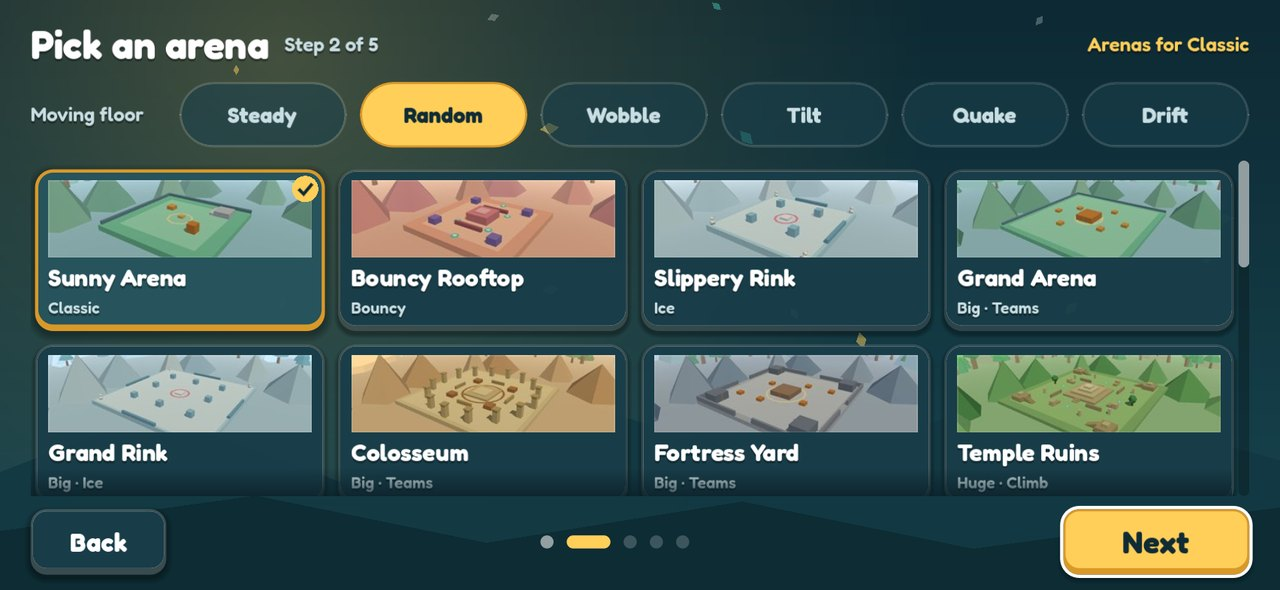
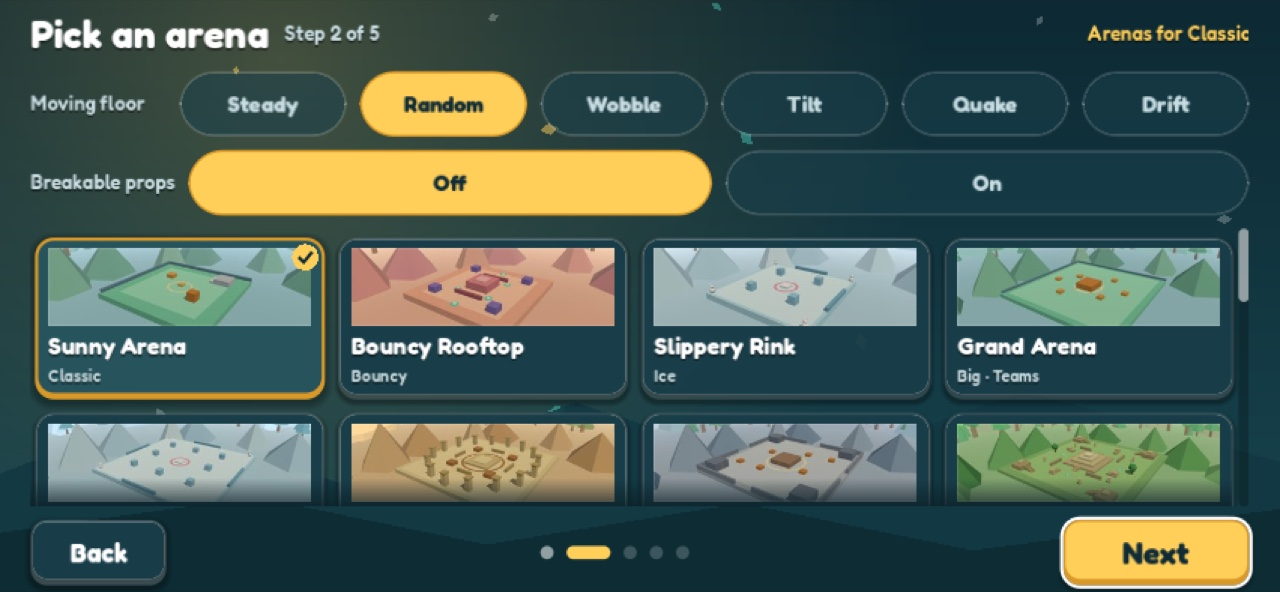
docs: refresh README for 0.4.0
Bump the version badge and add a What's new in 0.4.0 section (Arcade co-op,
Quick play, the two-column title screen, countdown and safe spawn, melee
boss and FIRE fixes).

Document Quick play, Arcade co-op, Kids mode, Leaderboards and Breakable
props in the feature list, and mention co-op in the About and Construction
sections. Re-render the stale title and arena-picker screenshots from the
current code.

diff --git a/README.md b/README.md
@@ -5,7 +5,7 @@
 <br />
 
 [![iOS beta on TestFlight](https://img.shields.io/badge/iOS_beta-TestFlight-0D96F6?style=for-the-badge&logo=apple&logoColor=white)](https://testflight.apple.com/v1/app/6833812750)
-![Version 0.3.0](https://img.shields.io/badge/version-0.3.0-FFCF4D?style=for-the-badge)
+![Version 0.4.0](https://img.shields.io/badge/version-0.4.0-FFCF4D?style=for-the-badge)
 ![Godot 4.7](https://img.shields.io/badge/Godot-4.7-478CBF?style=for-the-badge&logo=godotengine&logoColor=white)
 ![iOS, Android, macOS, Windows, Web](https://img.shields.io/badge/iOS_·_Android_·_macOS_·_Windows_·_Web-17323A?style=for-the-badge)
 
@@ -15,12 +15,22 @@
 
 **Wobblers Arena** is a third-person party brawler where blocky, wobbly fighters knock each other around small low-poly arenas. Weapons drop from the sky in crates, every hit sends someone ragdolling, and the floor itself may tilt, quake or drift under your feet.
 
-Play offline against computer players, or open a room and play online with friends using a public room or a code. Matches are short, a round takes a few minutes, and the game is built for phones in landscape as much as for a keyboard and mouse.
+Play offline against computer players, open a room and play online with friends using a public room or a code, or team up for the Arcade boss rush in two-player co-op. Matches are short, a round takes a few minutes, and the game is built for phones in landscape as much as for a keyboard and mouse.
 
 <div align="center">
   <img src="docs/readme/match.jpg" alt="A Classic match on Sunny Arena, with the health bar, weapon slots and radar" width="100%" />
   <em>A Classic match on Sunny Arena: crates drop from the sky, and whoever grabs the weapon first gets the swing.</em>
 </div>
+
+## What's new in 0.4.0
+
+The co-op update, as it appears in the game's What's new card:
+
+- **Arcade co-op.** Two players online beat the six-stage boss rush together, and a bot takes over if your mate leaves.
+- **Quick play.** One tap on the title screen for a random arena and mode, straight into an offline match.
+- **A new title screen.** Play and Quick play on the left, the rest on the right.
+- **A fairer start.** Matches open with a countdown, and you spawn on a random safe spot.
+- **Fixed.** Melee Arcade bosses, and the FIRE button that could stick.
 
 ## What's in it
 
@@ -29,7 +39,12 @@ Play offline against computer players, or open a room and play online with frien
 - **30+ arenas.** A sunny arena, an ice rink, a volcano rim, a moon base, a candy land, a pirate ship, a haunted hollow and many more, plus a Sandbox where you build your own from blocks.
 - **20+ game types.** Classic, Melee Only, Guns Only, Ninja, Explosive, Weapon Ladder, Deathmatch, Sudden Death, team games from 1v1 to 5v5 Chaos, low-gravity Moon Drift and a Practice Range.
 - **Moving floors.** Pick Steady, Wobble, Tilt, Quake or Drift for any arena, or leave it on Random.
+- **Breakable props.** An optional offline setting makes about half of each arena's cover breakable; broken pieces burst into debris and respawn about two minutes later.
 - **Offline and online.** Computer players in four difficulties, and online rooms for up to 8 players. The Godot game and the web game can play in the same room.
+- **Quick play.** One tap for a random game type, arena, class and floor, straight into an offline match.
+- **Arcade co-op.** Two players online take on the boss rush together, and a bot holds the seat if your partner leaves.
+- **Kids mode.** An offline assist with gentle auto-aim and an edge guard, for half the coins and no leaderboard score.
+- **Leaderboards.** Top K.O.s, wins and Arcade runs live on the server, in the Account sheet.
 - **Walldrobe and Shop.** Earn coins from matches and daily goals, then spend them on outfits, hats, colours, emotes and classes.
 - **Replays.** A short slow-motion replay of each K.O.
 - **Six languages.** English, 繁體中文, 简体中文, 日本語, Français and Español.
@@ -38,11 +53,11 @@ Play offline against computer players, or open a room and play online with frien
 
 <table>
   <tr>
-    <td width="50%"><img src="docs/readme/title.jpg" alt="Title screen" /><br /><sub>Title screen: play offline, play online, or visit the Walldrobe, Shop and Goals.</sub></td>
+    <td width="50%"><img src="docs/readme/title.jpg" alt="Title screen" /><br /><sub>Title screen: Play and Quick play on the left, the Walldrobe, Shop and Goals on the right.</sub></td>
     <td width="50%"><img src="docs/readme/game-types.jpg" alt="Game type picker" /><br /><sub>Pick a game type.</sub></td>
   </tr>
   <tr>
-    <td><img src="docs/readme/arena-select.jpg" alt="Arena picker with moving floor options" /><br /><sub>Pick an arena and how its floor moves.</sub></td>
+    <td><img src="docs/readme/arena-select.jpg" alt="Arena picker with moving floor and breakable props options" /><br /><sub>Pick an arena, how its floor moves, and whether its props break.</sub></td>
     <td><img src="docs/readme/walldrobe.jpg" alt="Walldrobe class page" /><br /><sub>The Walldrobe: classes, outfits, hats, colours and emotes.</sub></td>
   </tr>
   <tr>
@@ -84,7 +99,7 @@ Six more are in the Shop or unlock as you play: **Bulwark**, **Zippy**, **Ace**,
 
 ## Construction and Arcade
 
-Behind the DON'T ENTER sign on the title screen is the Construction set: a worksite arena, nine tradie weapons (Pipe Wrench, Nail Gun, Jackhammer, Spirit Level, Tape Measure, Cement Bucket, Cone Launcher, Angle Grinder and Cordless Drill) and **Arcade**, a six-stage boss rush. Fight through the Tradies, the Engineer, the Designer, the Supervisor and the Project Manager to reach The Client, on Easy, Normal or Nightmare.
+Behind the DON'T ENTER sign on the title screen is the Construction set: a worksite arena, nine tradie weapons (Pipe Wrench, Nail Gun, Jackhammer, Spirit Level, Tape Measure, Cement Bucket, Cone Launcher, Angle Grinder and Cordless Drill) and **Arcade**, a six-stage boss rush. Fight through the Tradies, the Engineer, the Designer, the Supervisor and the Project Manager to reach The Client, on Easy, Normal or Nightmare. Arcade runs solo offline, or two-player co-op online.
 
 ## Play it
 
